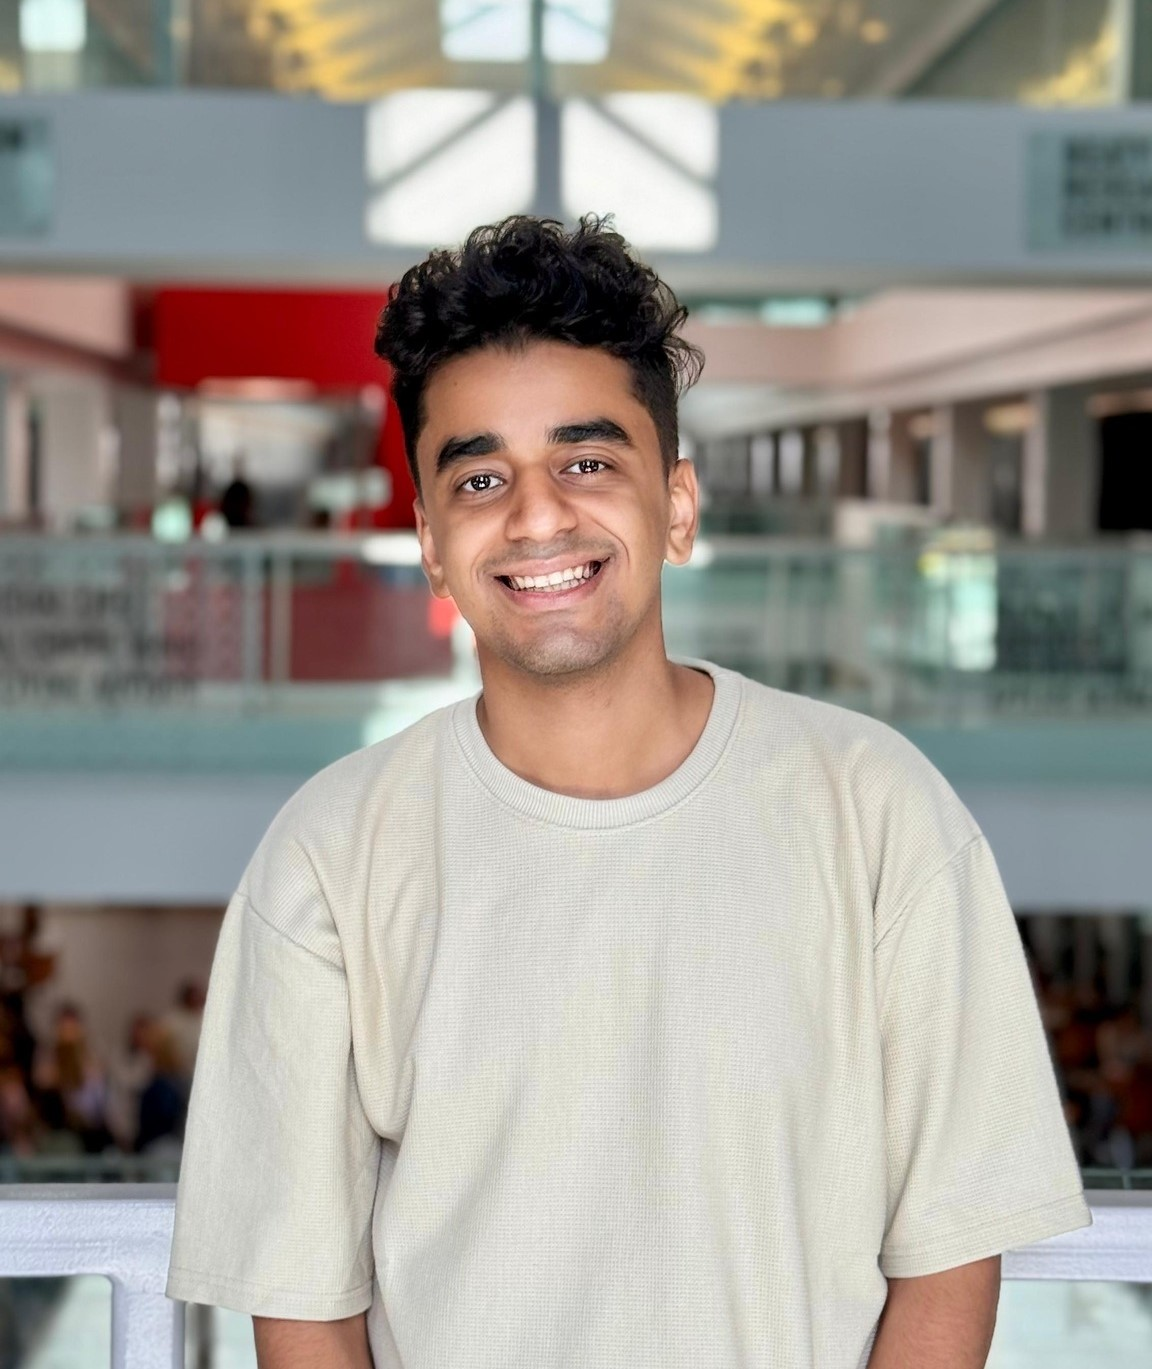
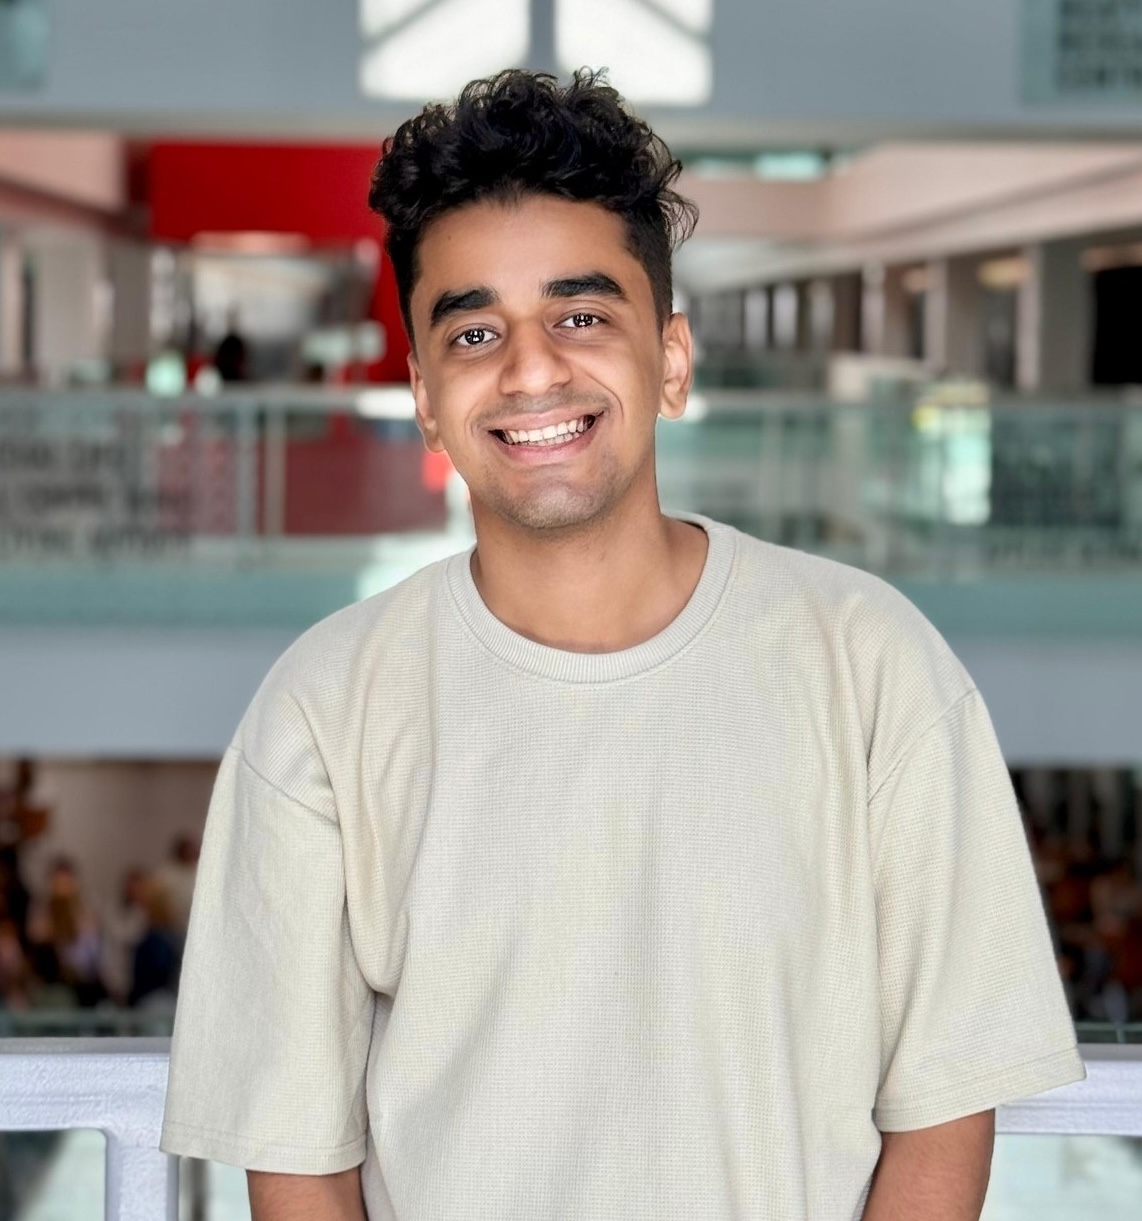
fixed photo cropping in members.html

diff --git a/css/styles.css b/css/styles.css
@@ -101,14 +101,15 @@ footer {
 
 /* Custom CSS for all pages */
 
-/* Custom CSS for all pages */
-
 /* Ensures consistent image size and cropping */
 .card-img-top {
   height: 200px; /* Set a consistent height for all images */
-  object-fit: cover; /* Ensures the image is cropped proportionally */
-  width: 100%; /* Ensures the image fills the card's width */
+  object-fit: cover; /* Ensures the image fills the card completely */
+  object-position: top; /* Crops the image from the bottom */
+  width: 100%; /* Ensures the image spans the full width of the card */
 }
+
+
 
 /* Flexbox layout for card body */
 .card-body {
@@ -134,18 +135,24 @@ footer {
   margin: 0; /* Ensures no extra space above the navbar */
 }
 
+
+
+
+
+
 /* Specific styling for PI's card */
 .principal-investigator-card {
   flex-basis: 100%; /* Allow the card to span wider */
-  max-width: 300px; /* Reduce size for alignment */
+  max-width: 300px; /* Adjust width for alignment */
   margin-left: 0; /* Align to the left */
 }
 
 /* Adjusted image height for the PI's card */
 .principal-investigator-card .card-img-top {
-  height: 250px; /* Reduced height for better alignment */
-  object-fit: cover; /* Ensures the image is cropped proportionally */
-  width: 100%; /* Ensures the image fills the card's width */
+  height: 250px; /* Adjust height for PI card */
+  object-fit: cover; /* Fills the card with the image */
+  object-position: top; /* Crops the image more from the bottom */
+  width: 100%; /* Ensures the image spans the full width of the card */
 }
 
 /* Adjusted card body to maintain balance */
@@ -162,8 +169,6 @@ body {
   padding-bottom: 2rem !important; /* Consistent spacing at the bottom of the page */
 }
 
-
-/* Custom CSS for all pages */
 
 
 .bio-container  {
